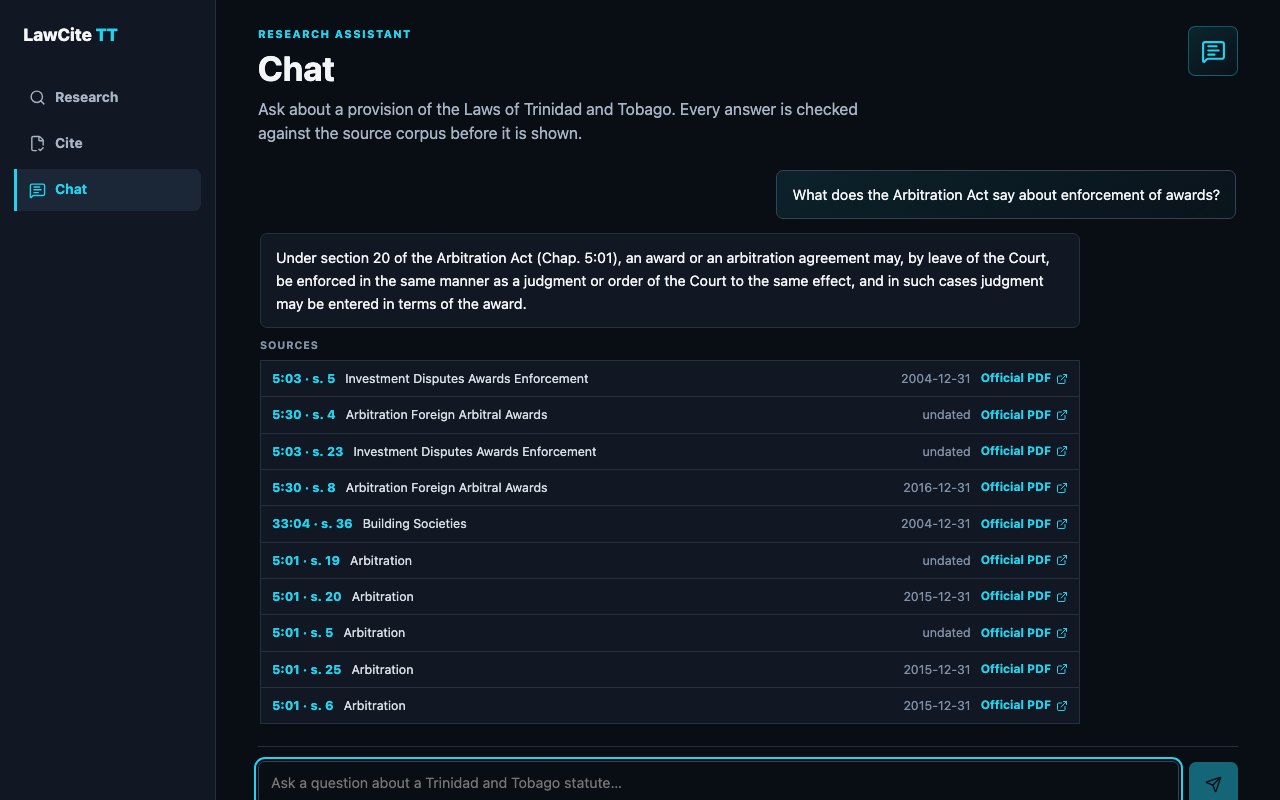
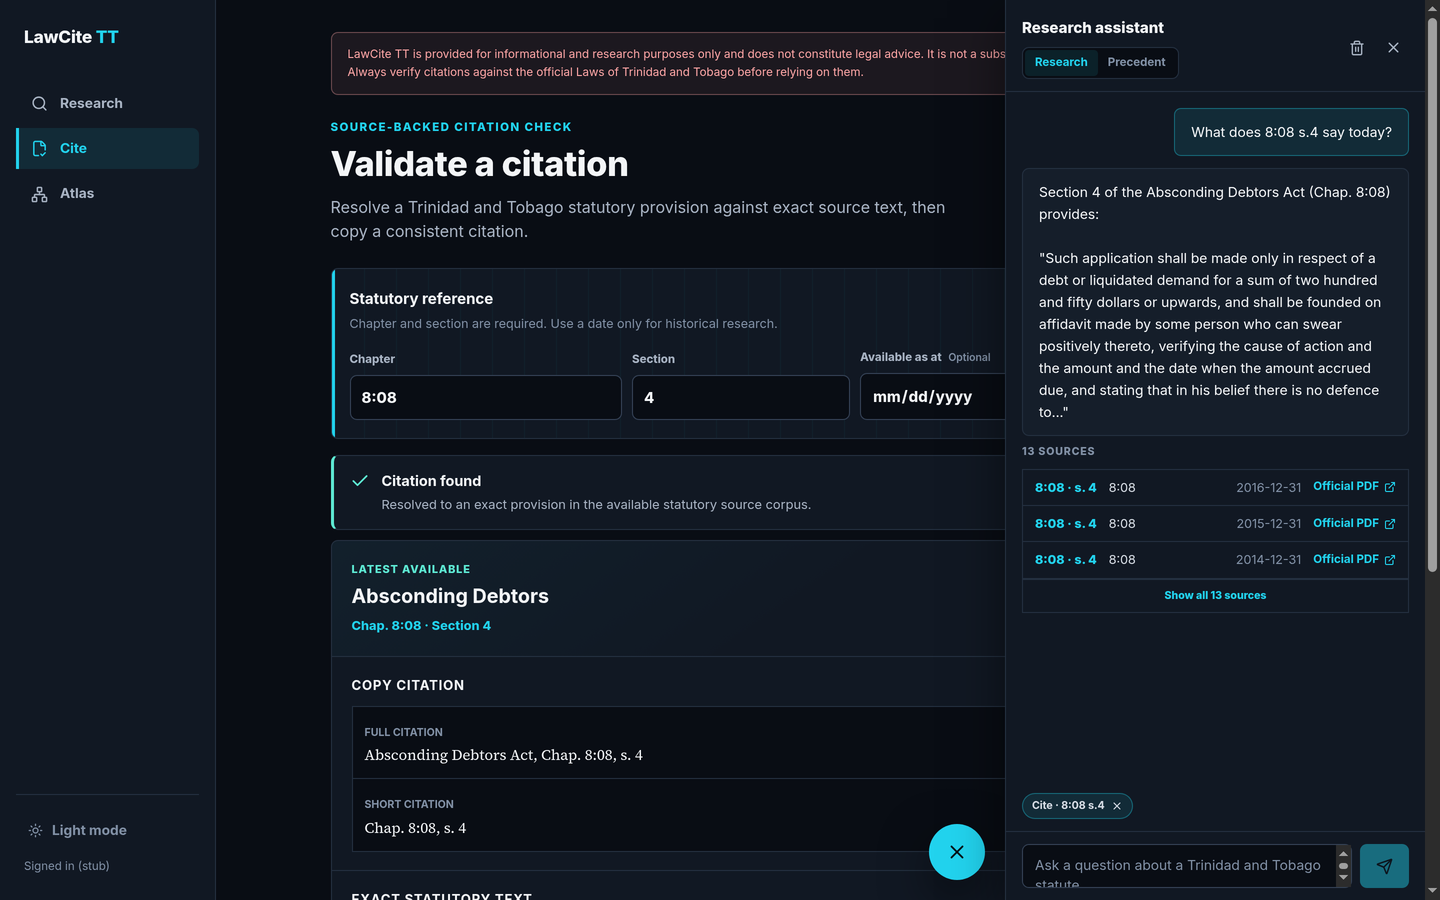
docs: README demo section with walkthrough GIF, fresh screenshots, About refresh

diff --git a/README.md b/README.md
@@ -21,24 +21,30 @@
 
 **LawCite TT** is an advanced legal research engine and temporal citation platform indexing the complete statutory laws and judicial precedent of **Trinidad and Tobago**. 
 
-By digitizing and section-chunking all **533 statutory chapters** across **4,989 historical revisions** (spanning back to the 1800s), LawCite TT enables point-in-time statutory research (*"What did Section 5 of the Arbitration Act state as of December 31, 2016?"*), hybrid full-text + vector semantic search, and citation graph exploration across **7,914 case-law precedent edges**.
+By digitizing and section-chunking all **533 statutory chapters** across **4,989 historical revisions** (spanning back to the 1800s), LawCite TT enables point-in-time statutory research (*"What did Section 5 of the Arbitration Act state as of December 31, 2016?"*), hybrid full-text + vector semantic search, and citation graph exploration across **7,914 case-law precedent edges**. A floating research assistant grounds every answer in the corpus with linked sources, and the **Statute Atlas** renders the whole corpus as an explorable semantic map.
 
 ---
 
-## 📸 Screenshots
+## 📸 Demo & Screenshots
+
+**Walkthrough** — hybrid search → validate a citation → ask the grounded assistant → open the Statute Atlas → back to the app:
+
+<img src="docs/images/walkthrough.gif" alt="Walkthrough: searching legislation, validating a citation, asking the research assistant, and exploring the Statute Atlas" width="960" />
 
 <table>
   <tr>
     <td align="center"><strong>Research</strong></td>
     <td align="center"><strong>Cite</strong></td>
-    <td align="center"><strong>Chat</strong></td>
+    <td align="center"><strong>Research assistant</strong></td>
   </tr>
   <tr>
-    <td><img src="docs/images/research.png" alt="Research tab showing search results" /></td>
-    <td><img src="docs/images/cite.png" alt="Cite tab showing citation validation" /></td>
-    <td><img src="docs/images/chat.png" alt="Chat tab showing AI assistant" /></td>
+    <td><img src="docs/images/research.png" alt="Research view with hybrid search results for arbitration across 11 chapters" /></td>
+    <td><img src="docs/images/cite.png" alt="Citation validation resolving Chap. 8:08 s. 4 to the Absconding Debtors Act with copy-ready citations" /></td>
+    <td><img src="docs/images/chat.png" alt="Research assistant answering with a grounded quote and 13 linked sources, cite-context chip attached" /></td>
   </tr>
 </table>
+
+<img src="docs/images/atlas.png" alt="Statute Atlas: interactive canvas graph of all 533 statutory chapters with semantic relationships" />
 
 ---
 
@@ -52,7 +58,7 @@ By digitizing and section-chunking all **533 statutory chapters** across **4,989
     </td>
     <td width="50%">
       <h3>🤖 Intelligent Legal AI Assistant</h3>
-      <p>An interactive legal assistant that analyzes statutory provisions, identifies relevant judicial precedents, and synthesizes structured legal answers in real time.</p>
+      <p>A floating research assistant that answers strictly from the corpus with verbatim quotes and linked sources — and carries your current search or citation context into every question.</p>
     </td>
   </tr>
   <tr>
@@ -71,8 +77,8 @@ By digitizing and section-chunking all **533 statutory chapters** across **4,989
       <p>View and inspect official statutory PDF revisions inline with high-reliability document streaming and instant browser preview capabilities.</p>
     </td>
     <td width="50%">
-      <h3>⚡ Global Edge Performance & Security</h3>
-      <p>Built on an enterprise-grade edge architecture with distributed caching, end-to-end HTTPS encryption, and sub-second query response times worldwide.</p>
+      <h3>🗺 Statute Atlas</h3>
+      <p>An Obsidian-style interactive map of all 533 statutory chapters — search, pan, zoom, and traverse the strongest semantic relationships between laws, self-contained in a single page.</p>
     </td>
   </tr>
 </table>
@@ -149,7 +155,7 @@ This project serves as a production-grade demonstration of modern **AI Engineeri
 ## 🛠 Technology Stack
 
 
-* **Frontend**: [Svelte 5](https://svelte.dev) (Runes API), Vite, Lucide Icons, Vanilla CSS Design Tokens
+* **Frontend**: [Svelte 5](https://svelte.dev) (Runes API), Vite, Lucide Icons, Vanilla CSS Design Tokens, self-contained canvas Statute Atlas
 * **Edge Deployment**: [Cloudflare Workers](https://workers.cloudflare.com) (Static Assets + Worker Reverse Proxy)
 * **Backend API**: [FastAPI](https://fastapi.tiangolo.com) (Python 3.13), Uvicorn, AsyncPG, HTTPX
 * **Database & Vector Search**: [PostgreSQL 16](https://www.postgresql.org) + [pgvector](https://github.com/pgvector/pgvector), Hybrid FTS + HNSW Vector Indexing
@@ -172,10 +178,11 @@ The fastest way to understand LawCite TT is to use it:
 
 ### Statute Atlas
 
-The frontend also ships a self-contained, Obsidian-style graph at
-`/laws-graph.html`. It includes all 533 statutory chapters and rolls 23,143
-provisions into a sparse set of chapter-level semantic relationships. Users can
-search, pan, zoom, select a law, and traverse to its strongest related laws.
+The frontend also ships a self-contained, Obsidian-style graph — linked from the
+**Atlas** item in the app sidebar — at `/laws-graph.html`. It includes all 533
+statutory chapters and rolls 23,143 provisions into a sparse set of
+chapter-level semantic relationships. Users can search, pan, zoom, select a law,
+and traverse to its strongest related laws.
 
 These graph links represent inferred semantic similarity, not authoritative
 citations. Rebuild the page from the local GraphRAG export with:
